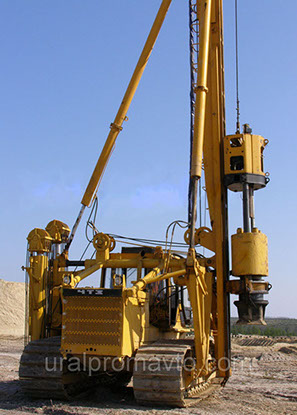
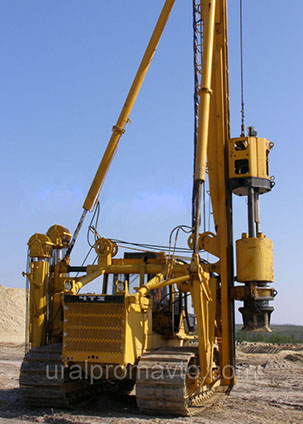
sibburkom

diff --git a/sibburkom/phone/css/index.css b/sibburkom/phone/css/index.css
@@ -1,1 +1,1 @@
-.version.index{color:#0000FC;background-color:#A7C480;}#page{z-index:1;min-height:570px;background-image:none;border-width:0px;border-color:#000000;background-color:#FFFFFF;opacity:1;-ms-filter:"progid:DXImageTransform.Microsoft.Alpha(Opacity=100)";filter:alpha(opacity=100);width:100%;max-width:380px;}#pu2746{z-index:2;margin-right:-10000px;width:100%;}#u2746{z-index:2;min-height:807.9168046874918px;border-style:solid;border-width:1px;border-color:#ECF0F1;background-color:#FCFCFC;padding-bottom:0px;}#u2746_position_content{padding-top:68px;padding-bottom:208px;width:100%;}#u2747-4{z-index:46;width:370px;min-height:42px;border-width:0px;border-color:transparent;background-color:transparent;line-height:43px;margin-left:6px;position:relative;}#ppamphletu2748{z-index:3;left:-1px;margin-top:5px;position:relative;width:100%;}#pamphletu2748{z-index:3;width:0.01px;height:375px;padding-bottom:34px;position:relative;margin-right:-10000px;left:-2px;}#u2749{position:absolute;width:383px;height:409px;background-color:transparent;}#u2749popup{z-index:4;}#u2755{z-index:5;width:383px;height:344px;border-width:0px;border-color:#999999;background-color:transparent;padding-bottom:65px;margin-right:-10000px;position:relative;}#u2758{z-index:6;background-color:transparent;position:relative;margin-right:-10000px;margin-top:3px;width:99.22%;}#u2756-4{z-index:8;width:214px;min-height:23px;border-color:#000000;background-color:transparent;font-size:24px;text-align:center;color:#000000;line-height:29px;position:relative;margin-right:-10000px;margin-top:218px;left:2px;}#u2757-4{z-index:12;width:214px;min-height:23px;border-color:#000000;background-color:transparent;font-size:24px;text-align:center;color:#212434;line-height:29px;position:relative;margin-right:-10000px;margin-top:257px;left:164px;}#u2750{z-index:16;width:383px;height:306px;border-width:0px;border-color:#999999;background-color:transparent;padding-bottom:103px;margin-right:-10000px;position:relative;}#u3098{z-index:25;background-color:transparent;position:relative;width:97.39%;margin-left:1.05%;}#pu2751-4{z-index:17;width:0.01px;margin-top:17px;}#u2751-4{z-index:17;width:214px;min-height:23px;border-color:#000000;background-color:transparent;font-size:24px;text-align:center;color:#212434;line-height:29px;position:relative;margin-right:-10000px;}#u2752-4{z-index:21;width:214px;min-height:23px;border-color:#000000;background-color:transparent;font-size:24px;text-align:center;color:#212434;line-height:29px;position:relative;margin-right:-10000px;margin-top:14px;left:163px;}#u2760{z-index:27;width:383px;height:349px;border-width:0px;border-color:#999999;background-color:transparent;padding-bottom:60px;margin-right:-10000px;position:relative;}#pu2763{z-index:28;width:98.96%;margin-left:0.53%;}#u2763{z-index:28;background-color:transparent;position:relative;margin-right:-10000px;width:55.94%;}#u2761{z-index:30;background-color:transparent;position:relative;margin-right:-10000px;width:53.3%;left:46.71%;}#u2758_img,#u3098_img,#u2763_img,#u2761_img{width:100%;}#pu2765-4{z-index:32;width:0.01px;margin-left:4px;margin-top:8px;}#u2765-4{z-index:32;width:196px;min-height:23px;border-color:#000000;background-color:transparent;font-size:24px;text-align:center;color:#212434;line-height:29px;position:relative;margin-right:-10000px;}#u2766-4{z-index:36;width:198px;min-height:23px;border-color:#000000;background-color:transparent;font-size:24px;text-align:center;color:#212434;line-height:29px;position:relative;margin-right:-10000px;left:180px;}#u2770{z-index:40;width:79px;height:16px;position:relative;margin-right:-10000px;margin-top:360px;left:157px;}#u2771{position:absolute;width:14px;height:14px;border-style:solid;border-width:1px;border-color:#BBC2CC;background-color:#EDF1F2;border-radius:1000px;left:31px;}#u2771:hover{border-color:#DD3635;background-color:#DF342E;width:14px;height:14px;min-height:0px;margin:0px;}#u2773{position:absolute;width:14px;height:14px;border-style:solid;border-width:1px;border-color:#BBC2CC;background-color:#EDF1F2;border-radius:1000px;left:63px;}#u2773:hover{border-color:#DD3635;background-color:#DF342E;width:14px;height:14px;min-height:0px;margin:0px;}#u2772{position:absolute;width:14px;height:14px;border-style:solid;border-width:1px;border-color:#BBC2CC;background-color:#EDF1F2;border-radius:1000px;}#u2772:hover{border-color:#DD3635;background-color:#DF342E;width:14px;height:14px;min-height:0px;margin:0px;}#u2771.PamphletThumbSelected,#u2773.PamphletThumbSelected,#u2772.PamphletThumbSelected{border-color:#DF342E;background-color:#DF342E;width:14px;height:14px;min-height:0px;margin:0px;}#u2774{position:absolute;width:56px;height:58px;border-style:solid;border-width:2px;border-color:#FFFFFF;opacity:1;-ms-filter:"progid:DXImageTransform.Microsoft.Alpha(Opacity=100)";filter:alpha(opacity=100);border-radius:1000px;top:112px;left:12px;background:#212434 url("../../images/arrow2w.png?crc=323185388") no-repeat center center;}#u2767{position:absolute;width:56px;height:58px;border-style:solid;border-width:2px;border-color:#FFFFFF;opacity:1;-ms-filter:"progid:DXImageTransform.Microsoft.Alpha(Opacity=100)";filter:alpha(opacity=100);border-radius:1000px;top:112px;left:319px;background:#212434 url("../../images/arrow1w.png?crc=4034096410") no-repeat center center;}#u2774:hover,#u2767:hover{background-repeat:no-repeat;background-position:center center;opacity:0.8;-ms-filter:"progid:DXImageTransform.Microsoft.Alpha(Opacity=80)";filter:alpha(opacity=80);width:56px;height:58px;min-height:0px;margin:0px;}#u2767::before,#u2767:hover::before{content:"";position:absolute;pointer-events:none;border-radius:1000px;box-shadow:none;}.PamphletWidget .ThumbGroup .Thumb,.PamphletNextButton,.PamphletPrevButton,.PamphletCloseButton{cursor:pointer;}#u2775-4{z-index:50;min-height:97px;background-color:transparent;letter-spacing:-2px;line-height:43px;font-size:36px;text-align:center;font-weight:bold;font-style:normal;position:relative;margin-right:-10000px;margin-top:387px;width:100%;}.js body{visibility:hidden;}.js body.initialized{visibility:visible;}#u2746-bw{z-index:2;min-height:807.9168046874918px;margin-top:154px;}#u2776{z-index:54;min-height:799px;border-color:#000000;background-color:#212434;}#u2776_position_content{padding-top:36px;padding-bottom:29px;width:100%;}#u2789-4{z-index:78;width:378px;min-height:42px;background-color:transparent;line-height:43px;font-size:36px;text-align:center;color:#FFFFFF;font-family:open-sans, sans-serif;font-weight:800;left:-1px;position:relative;}#buttonu2781{z-index:64;width:212px;height:94.9007319501161px;border-style:solid;border-width:2px;border-color:#FFFFFF;background-color:transparent;border-radius:1000px;padding-top:58px;padding-bottom:59.099268049883904px;margin-left:79px;margin-top:15px;position:relative;}#buttonu2781.ButtonSelected{width:212px;height:95px;min-height:0px;margin:15px 0px 0px 79px;}#u2783{z-index:69;width:48px;background-color:transparent;margin-left:82px;position:relative;}#buttonu2781.ButtonSelected #u2783{width:48px;min-height:0px;margin:0px 0px 0px 82px;}#u2784{z-index:70;display:block;}#u2782-4{z-index:65;width:207px;min-height:18px;background-color:transparent;line-height:23px;font-size:18px;text-align:center;color:#FFFFFF;font-family:open-sans, sans-serif;font-weight:600;margin-left:3px;margin-top:24px;position:relative;}#buttonu2785{z-index:71;width:212px;height:83.9017319501163px;border-style:solid;border-width:2px;border-color:#FFFFFF;background-color:transparent;border-radius:1000px;padding-top:69px;padding-bottom:59.0982680498837px;margin-left:80px;margin-top:14px;position:relative;}#buttonu2785.ButtonSelected{width:212px;height:84px;min-height:0px;margin:14px 0px 0px 80px;}#u2786{z-index:76;width:48px;background-color:transparent;margin-left:83px;position:relative;}#buttonu2785.ButtonSelected #u2786{width:48px;min-height:0px;margin:0px 0px 0px 83px;}#u2787{z-index:77;display:block;}#u2788-4{z-index:72;width:207px;min-height:18px;background-color:transparent;line-height:23px;font-size:18px;text-align:center;color:#FFFFFF;font-family:open-sans, sans-serif;font-weight:400;margin-left:3px;margin-top:23px;position:relative;}#buttonu2785.ButtonSelected #u2788-4{padding-top:0px;padding-bottom:0px;min-height:18px;width:207px;margin:23px 0px 0px 3px;}#buttonu2777{z-index:55;width:212px;height:117.88723195011607px;border-style:solid;border-width:2px;border-color:#FFFFFF;background-color:transparent;border-radius:1000px;padding-top:58px;padding-bottom:36.112768049883925px;margin-left:79px;margin-top:15px;position:relative;}#buttonu2777.ButtonSelected{width:212px;height:118px;min-height:0px;margin:15px 0px 0px 79px;}#u2778{z-index:62;width:33px;background-color:transparent;margin-left:89px;position:relative;}#buttonu2777.ButtonSelected #u2778{width:33px;min-height:0px;margin:0px 0px 0px 89px;}#u2779{z-index:63;display:block;}#u2780-6{z-index:56;width:207px;min-height:18px;background-color:transparent;line-height:23px;font-size:18px;text-align:center;color:#FFFFFF;font-family:open-sans, sans-serif;font-weight:400;margin-left:3px;margin-top:24px;position:relative;}#buttonu2781.ButtonSelected #u2782-4,#buttonu2777.ButtonSelected #u2780-6{padding-top:0px;padding-bottom:0px;min-height:18px;width:207px;margin:24px 0px 0px 3px;}#u2776-bw{z-index:54;min-height:799px;margin-top:707px;}#top{position:relative;margin-right:-10000px;width:22px;left:17.11%;}#u2797{z-index:106;min-height:176.99999999999983px;box-shadow:0px 1px 3px rgba(0,0,0,0.4);border-width:0px;border-color:transparent;background-color:#212434;padding-top:18px;padding-bottom:23.00000000000017px;}#pu2798-8{z-index:107;position:relative;width:100%;}#u2798-8{z-index:107;width:211px;min-height:48px;border-style:solid;border-width:2px;border-color:#FFFFFF;background-color:#FFFFFF;line-height:0px;font-size:24px;color:#212434;text-indent:20px;text-transform:uppercase;text-align:left;letter-spacing:1px;font-family:open-sans, sans-serif;font-weight:800;position:relative;margin-right:-10000px;left:-0.27%;}#u2798-2,#u2798-4,#u2798-6{padding:13px 2px;}#u2799-4{z-index:115;width:163px;min-height:80px;border-style:solid;border-color:#FFFFFF;background-color:transparent;line-height:18px;font-size:12px;color:#FFFFFF;letter-spacing:1px;text-transform:uppercase;text-align:left;font-family:open-sans, sans-serif;font-weight:400;margin-bottom:-1px;position:relative;margin-right:-10000px;margin-top:-1px;left:56.32%;border-width:2px 2px 2px 0px;}#u2799-2{padding-left:12px;padding-top:7px;}#u2800{z-index:119;width:271px;border-width:0px;border-color:transparent;background-color:transparent;margin-top:13px;position:relative;margin-left:13.95%;}#u2802-6{z-index:120;width:271px;min-height:57px;background-color:transparent;line-height:30px;font-size:30px;text-align:center;color:#FFAE03;font-family:open-sans, sans-serif;font-weight:700;position:relative;}#u2802-4{padding-top:9px;}#u2802{color:#FCBD49;}#u2802-3{color:#FFFFFF;}#u2801-4{z-index:126;width:271px;min-height:25px;background-color:transparent;line-height:13px;font-size:11px;color:#FFFFFF;letter-spacing:1px;text-transform:uppercase;text-align:center;font-family:open-sans, sans-serif;font-weight:400;position:relative;}#u2797-bw{z-index:106;min-height:176.99999999999983px;}.css_verticalspacer .verticalspacer{height:calc(100vh - 1631px);}#pu2790{z-index:82;width:0.01px;margin-bottom:-57px;margin-right:-10000px;}#u2790{z-index:82;min-height:128px;background-color:#1D1D1B;}#u2794-4{z-index:97;width:39px;min-height:39px;border-style:solid;border-width:1px;border-color:#474743;background-color:transparent;line-height:11px;font-size:11px;text-align:center;color:#7C7C7C;font-family:open-sans, sans-serif;font-weight:400;margin-bottom:-1px;position:relative;margin-right:-10000px;margin-top:88px;left:176px;}#u2794-4:hover{border-color:#FFFFFF;padding-top:0px;padding-bottom:0px;min-height:39px;width:39px;margin:88px -10000px -1px 0px;}#u2794-2{padding-top:2px;}#u2790-bw{z-index:82;min-height:128px;}#u2791-6{z-index:83;min-height:34px;background-color:transparent;line-height:17px;font-size:11px;text-align:center;color:#7F7F7F;font-family:open-sans, sans-serif;font-weight:400;}#u2791-6-bw{z-index:83;min-height:34px;margin-top:37px;}#u2792-4{z-index:89;width:133px;min-height:43px;background-color:transparent;line-height:17px;font-size:11px;text-align:center;color:#7C7C7C;font-family:open-sans, sans-serif;font-weight:400;position:relative;margin-right:-10000px;margin-top:2px;left:130px;}#u2792-4:hover{padding-top:0px;padding-bottom:0px;min-height:43px;width:133px;margin:2px -10000px 0px 0px;}#u2794-4:hover p,#u2792-4:hover p,#u2792-4:hover span{color:#FFFFFF;visibility:inherit;}#u2792{text-decoration:underline;}#u2793-4{z-index:93;width:130px;min-height:34px;background-color:transparent;line-height:17px;font-size:11px;text-align:center;color:#7C7C7C;font-family:open-sans, sans-serif;font-weight:400;position:relative;margin-right:-10000px;margin-top:2px;}#u2795-4{z-index:101;width:119px;min-height:34px;background-color:transparent;line-height:17px;font-size:11px;text-align:center;color:#7C7C7C;font-family:open-sans, sans-serif;font-weight:400;position:relative;margin-right:-10000px;margin-top:2px;left:261px;}#muse_css_mq,.html{background-color:#FFFFFF;}body{position:relative;min-width:320px;padding-bottom:56px;}.verticalspacer{min-height:1px;}
+.version.index{color:#00000D;background-color:#2D34E2;}#page{z-index:1;min-height:570px;background-image:none;border-width:0px;border-color:#000000;background-color:#FFFFFF;opacity:1;-ms-filter:"progid:DXImageTransform.Microsoft.Alpha(Opacity=100)";filter:alpha(opacity=100);width:100%;}#pu2746{z-index:2;margin-right:-10000px;width:100%;}#u2746{z-index:2;min-height:807.9168046874918px;border-style:solid;border-width:1px;border-color:#ECF0F1;background-color:#FCFCFC;padding-bottom:0px;}#u2746_position_content{padding-top:68px;padding-bottom:208px;width:100%;}#u2747-4{z-index:46;width:370px;min-height:42px;border-width:0px;border-color:transparent;background-color:transparent;line-height:43px;margin-left:6px;position:relative;}#ppamphletu2748{z-index:3;left:-1px;margin-top:5px;position:relative;width:100%;}#pamphletu2748{z-index:3;width:0.01px;height:375px;padding-bottom:34px;position:relative;margin-right:-10000px;left:-2px;}#u2749{position:absolute;width:383px;height:409px;background-color:transparent;}#u2749popup{z-index:4;}#u2755{z-index:5;width:383px;height:344px;border-width:0px;border-color:#999999;background-color:transparent;padding-bottom:65px;margin-right:-10000px;position:relative;}#u2758{z-index:6;background-color:transparent;position:relative;margin-right:-10000px;margin-top:3px;width:99.22%;}#u2756-4{z-index:8;width:214px;min-height:23px;border-color:#000000;background-color:transparent;font-size:24px;text-align:center;color:#000000;line-height:29px;position:relative;margin-right:-10000px;margin-top:218px;left:2px;}#u2757-4{z-index:12;width:214px;min-height:23px;border-color:#000000;background-color:transparent;font-size:24px;text-align:center;color:#212434;line-height:29px;position:relative;margin-right:-10000px;margin-top:257px;left:164px;}#u2750{z-index:16;width:383px;height:306px;border-width:0px;border-color:#999999;background-color:transparent;padding-bottom:103px;margin-right:-10000px;position:relative;}#u3098{z-index:25;background-color:transparent;position:relative;width:97.39%;margin-left:1.05%;}#pu2751-4{z-index:17;width:0.01px;margin-top:17px;}#u2751-4{z-index:17;width:214px;min-height:23px;border-color:#000000;background-color:transparent;font-size:24px;text-align:center;color:#212434;line-height:29px;position:relative;margin-right:-10000px;}#u2752-4{z-index:21;width:214px;min-height:23px;border-color:#000000;background-color:transparent;font-size:24px;text-align:center;color:#212434;line-height:29px;position:relative;margin-right:-10000px;margin-top:14px;left:163px;}#u2760{z-index:27;width:383px;height:349px;border-width:0px;border-color:#999999;background-color:transparent;padding-bottom:60px;margin-right:-10000px;position:relative;}#pu2763{z-index:28;width:98.96%;margin-left:0.53%;}#u2763{z-index:28;background-color:transparent;position:relative;margin-right:-10000px;width:55.94%;}#u2761{z-index:30;background-color:transparent;position:relative;margin-right:-10000px;width:53.3%;left:46.71%;}#u2758_img,#u3098_img,#u2763_img,#u2761_img{width:100%;}#pu2765-4{z-index:32;width:0.01px;margin-left:4px;margin-top:8px;}#u2765-4{z-index:32;width:196px;min-height:23px;border-color:#000000;background-color:transparent;font-size:24px;text-align:center;color:#212434;line-height:29px;position:relative;margin-right:-10000px;}#u2766-4{z-index:36;width:198px;min-height:23px;border-color:#000000;background-color:transparent;font-size:24px;text-align:center;color:#212434;line-height:29px;position:relative;margin-right:-10000px;left:180px;}#u2770{z-index:40;width:79px;height:16px;position:relative;margin-right:-10000px;margin-top:360px;left:157px;}#u2771{position:absolute;width:14px;height:14px;border-style:solid;border-width:1px;border-color:#BBC2CC;background-color:#EDF1F2;border-radius:1000px;left:31px;}#u2771:hover{border-color:#DD3635;background-color:#DF342E;width:14px;height:14px;min-height:0px;margin:0px;}#u2773{position:absolute;width:14px;height:14px;border-style:solid;border-width:1px;border-color:#BBC2CC;background-color:#EDF1F2;border-radius:1000px;left:63px;}#u2773:hover{border-color:#DD3635;background-color:#DF342E;width:14px;height:14px;min-height:0px;margin:0px;}#u2772{position:absolute;width:14px;height:14px;border-style:solid;border-width:1px;border-color:#BBC2CC;background-color:#EDF1F2;border-radius:1000px;}#u2772:hover{border-color:#DD3635;background-color:#DF342E;width:14px;height:14px;min-height:0px;margin:0px;}#u2771.PamphletThumbSelected,#u2773.PamphletThumbSelected,#u2772.PamphletThumbSelected{border-color:#DF342E;background-color:#DF342E;width:14px;height:14px;min-height:0px;margin:0px;}#u2774{position:absolute;width:56px;height:58px;border-style:solid;border-width:2px;border-color:#FFFFFF;opacity:1;-ms-filter:"progid:DXImageTransform.Microsoft.Alpha(Opacity=100)";filter:alpha(opacity=100);border-radius:1000px;top:112px;left:12px;background:#212434 url("../../images/arrow2w.png?crc=323185388") no-repeat center center;}#u2767{position:absolute;width:56px;height:58px;border-style:solid;border-width:2px;border-color:#FFFFFF;opacity:1;-ms-filter:"progid:DXImageTransform.Microsoft.Alpha(Opacity=100)";filter:alpha(opacity=100);border-radius:1000px;top:112px;left:319px;background:#212434 url("../../images/arrow1w.png?crc=4034096410") no-repeat center center;}#u2774:hover,#u2767:hover{background-repeat:no-repeat;background-position:center center;opacity:0.8;-ms-filter:"progid:DXImageTransform.Microsoft.Alpha(Opacity=80)";filter:alpha(opacity=80);width:56px;height:58px;min-height:0px;margin:0px;}#u2767::before,#u2767:hover::before{content:"";position:absolute;pointer-events:none;border-radius:1000px;box-shadow:none;}.PamphletWidget .ThumbGroup .Thumb,.PamphletNextButton,.PamphletPrevButton,.PamphletCloseButton{cursor:pointer;}#u2775-4{z-index:50;min-height:97px;background-color:transparent;letter-spacing:-2px;line-height:43px;font-size:36px;text-align:center;font-weight:bold;font-style:normal;position:relative;margin-right:-10000px;margin-top:387px;width:100%;}.js body{visibility:hidden;}.js body.initialized{visibility:visible;}#u2746-bw{z-index:2;min-height:807.9168046874918px;margin-top:154px;}#u2776{z-index:54;min-height:799px;border-color:#000000;background-color:#212434;}#u2776_position_content{padding-top:36px;padding-bottom:29px;width:100%;}#u2789-4{z-index:78;width:378px;min-height:42px;background-color:transparent;line-height:43px;font-size:36px;text-align:center;color:#FFFFFF;font-family:open-sans, sans-serif;font-weight:800;left:-1px;position:relative;}#buttonu2781{z-index:64;width:212px;height:94.9007319501161px;border-style:solid;border-width:2px;border-color:#FFFFFF;background-color:transparent;border-radius:1000px;padding-top:58px;padding-bottom:59.099268049883904px;margin-left:79px;margin-top:15px;position:relative;}#buttonu2781.ButtonSelected{width:212px;height:95px;min-height:0px;margin:15px 0px 0px 79px;}#u2783{z-index:69;width:48px;background-color:transparent;margin-left:82px;position:relative;}#buttonu2781.ButtonSelected #u2783{width:48px;min-height:0px;margin:0px 0px 0px 82px;}#u2784{z-index:70;display:block;}#u2782-4{z-index:65;width:207px;min-height:18px;background-color:transparent;line-height:23px;font-size:18px;text-align:center;color:#FFFFFF;font-family:open-sans, sans-serif;font-weight:600;margin-left:3px;margin-top:24px;position:relative;}#buttonu2785{z-index:71;width:212px;height:83.9017319501163px;border-style:solid;border-width:2px;border-color:#FFFFFF;background-color:transparent;border-radius:1000px;padding-top:69px;padding-bottom:59.0982680498837px;margin-left:80px;margin-top:14px;position:relative;}#buttonu2785.ButtonSelected{width:212px;height:84px;min-height:0px;margin:14px 0px 0px 80px;}#u2786{z-index:76;width:48px;background-color:transparent;margin-left:83px;position:relative;}#buttonu2785.ButtonSelected #u2786{width:48px;min-height:0px;margin:0px 0px 0px 83px;}#u2787{z-index:77;display:block;}#u2788-4{z-index:72;width:207px;min-height:18px;background-color:transparent;line-height:23px;font-size:18px;text-align:center;color:#FFFFFF;font-family:open-sans, sans-serif;font-weight:400;margin-left:3px;margin-top:23px;position:relative;}#buttonu2785.ButtonSelected #u2788-4{padding-top:0px;padding-bottom:0px;min-height:18px;width:207px;margin:23px 0px 0px 3px;}#buttonu2777{z-index:55;width:212px;height:117.88723195011607px;border-style:solid;border-width:2px;border-color:#FFFFFF;background-color:transparent;border-radius:1000px;padding-top:58px;padding-bottom:36.112768049883925px;margin-left:79px;margin-top:15px;position:relative;}#buttonu2777.ButtonSelected{width:212px;height:118px;min-height:0px;margin:15px 0px 0px 79px;}#u2778{z-index:62;width:33px;background-color:transparent;margin-left:89px;position:relative;}#buttonu2777.ButtonSelected #u2778{width:33px;min-height:0px;margin:0px 0px 0px 89px;}#u2779{z-index:63;display:block;}#u2780-6{z-index:56;width:207px;min-height:18px;background-color:transparent;line-height:23px;font-size:18px;text-align:center;color:#FFFFFF;font-family:open-sans, sans-serif;font-weight:400;margin-left:3px;margin-top:24px;position:relative;}#buttonu2781.ButtonSelected #u2782-4,#buttonu2777.ButtonSelected #u2780-6{padding-top:0px;padding-bottom:0px;min-height:18px;width:207px;margin:24px 0px 0px 3px;}#u2776-bw{z-index:54;min-height:799px;margin-top:707px;}#top{position:relative;margin-right:-10000px;width:22px;left:17.11%;}#u2797{z-index:106;min-height:176.99999999999983px;box-shadow:0px 1px 3px rgba(0,0,0,0.4);border-width:0px;border-color:transparent;background-color:#212434;padding-top:18px;padding-bottom:23.00000000000017px;}#pu2798-8{z-index:107;position:relative;width:100%;}#u2798-8{z-index:107;width:211px;min-height:48px;border-style:solid;border-width:2px;border-color:#FFFFFF;background-color:#FFFFFF;line-height:0px;font-size:24px;color:#212434;text-indent:20px;text-transform:uppercase;text-align:left;letter-spacing:1px;font-family:open-sans, sans-serif;font-weight:800;position:relative;margin-right:-10000px;left:-0.27%;}#u2798-2,#u2798-4,#u2798-6{padding:13px 2px;}#u2799-4{z-index:115;width:163px;min-height:80px;border-style:solid;border-color:#FFFFFF;background-color:transparent;line-height:18px;font-size:12px;color:#FFFFFF;letter-spacing:1px;text-transform:uppercase;text-align:left;font-family:open-sans, sans-serif;font-weight:400;margin-bottom:-1px;position:relative;margin-right:-10000px;margin-top:-1px;left:56.32%;border-width:2px 2px 2px 0px;}#u2799-2{padding-left:12px;padding-top:7px;}#u2800{z-index:119;width:271px;border-width:0px;border-color:transparent;background-color:transparent;margin-top:13px;position:relative;margin-left:13.95%;}#u2802-6{z-index:120;width:271px;min-height:57px;background-color:transparent;line-height:30px;font-size:30px;text-align:center;color:#FFAE03;font-family:open-sans, sans-serif;font-weight:700;position:relative;}#u2802-4{padding-top:9px;}#u2802{color:#FCBD49;}#u2802-3{color:#FFFFFF;}#u2801-4{z-index:126;width:271px;min-height:25px;background-color:transparent;line-height:13px;font-size:11px;color:#FFFFFF;letter-spacing:1px;text-transform:uppercase;text-align:center;font-family:open-sans, sans-serif;font-weight:400;position:relative;}#u2797-bw{z-index:106;min-height:176.99999999999983px;}.css_verticalspacer .verticalspacer{height:calc(100vh - 1631px);}#pu2790{z-index:82;width:0.01px;margin-bottom:-57px;margin-right:-10000px;}#u2790{z-index:82;min-height:128px;background-color:#1D1D1B;}#u2794-4{z-index:97;width:39px;min-height:39px;border-style:solid;border-width:1px;border-color:#474743;background-color:transparent;line-height:11px;font-size:11px;text-align:center;color:#7C7C7C;font-family:open-sans, sans-serif;font-weight:400;margin-bottom:-1px;position:relative;margin-right:-10000px;margin-top:88px;left:176px;}#u2794-4:hover{border-color:#FFFFFF;padding-top:0px;padding-bottom:0px;min-height:39px;width:39px;margin:88px -10000px -1px 0px;}#u2794-2{padding-top:2px;}#u2790-bw{z-index:82;min-height:128px;}#u2791-6{z-index:83;min-height:34px;background-color:transparent;line-height:17px;font-size:11px;text-align:center;color:#7F7F7F;font-family:open-sans, sans-serif;font-weight:400;}#u2791-6-bw{z-index:83;min-height:34px;margin-top:37px;}#u2792-4{z-index:89;width:133px;min-height:43px;background-color:transparent;line-height:17px;font-size:11px;text-align:center;color:#7C7C7C;font-family:open-sans, sans-serif;font-weight:400;position:relative;margin-right:-10000px;margin-top:2px;left:130px;}#u2792-4:hover{padding-top:0px;padding-bottom:0px;min-height:43px;width:133px;margin:2px -10000px 0px 0px;}#u2794-4:hover p,#u2792-4:hover p,#u2792-4:hover span{color:#FFFFFF;visibility:inherit;}#u2792{text-decoration:underline;}#u2793-4{z-index:93;width:130px;min-height:34px;background-color:transparent;line-height:17px;font-size:11px;text-align:center;color:#7C7C7C;font-family:open-sans, sans-serif;font-weight:400;position:relative;margin-right:-10000px;margin-top:2px;}#u2795-4{z-index:101;width:119px;min-height:34px;background-color:transparent;line-height:17px;font-size:11px;text-align:center;color:#7C7C7C;font-family:open-sans, sans-serif;font-weight:400;position:relative;margin-right:-10000px;margin-top:2px;left:261px;}#muse_css_mq,.html{background-color:#FFFFFF;}body{position:relative;min-width:320px;padding-bottom:56px;}.verticalspacer{min-height:1px;}

diff --git a/sibburkom/phone/index.html b/sibburkom/phone/index.html
@@ -18,7 +18,7 @@ if(typeof Muse == "undefined") window.Muse = {}; window.Muse.assets = {"required
   <title>Домашняя</title>
   <!-- CSS -->
   <link rel="stylesheet" type="text/css" href="../css/site_global.css?crc=94639636"/>
-  <link rel="stylesheet" type="text/css" href="css/index.css?crc=4238853248" id="pagesheet"/>
+  <link rel="stylesheet" type="text/css" href="css/index.css?crc=221066466" id="pagesheet"/>
   <!-- IE-only CSS -->
   <!--[if lt IE 9]>
   <link rel="stylesheet" type="text/css" href="css/iefonts_index.css?crc=3790340767"/>
@@ -46,7 +46,7 @@ if(typeof Muse == "undefined") window.Muse = {}; window.Muse.assets = {"required
           <div class="ContainerGroup clearfix" id="u2749" data-sizePolicy="fixed" data-pintopage="page_fixedLeft"><!-- stack box -->
            <div class="Container clearfix grpelem" id="u2755" data-sizePolicy="fixed" data-pintopage="page_fixedLeft"><!-- group -->
             <div class="clip_frame grpelem" id="u2758"><!-- image -->
-             <img class="block" id="u2758_img" src="../images/4986316380x245.jpg?crc=3871839620" alt="" data-heightwidthratio="0.6421052631578947" data-image-width="380" data-image-height="244"/>
+             <img class="block" id="u2758_img" src="../images/4986316570x366.jpg?crc=149275477" alt="" data-heightwidthratio="0.6421052631578947" data-image-width="380" data-image-height="244"/>
             </div>
             <div class="H1 clearfix grpelem" id="u2756-4" data-sizePolicy="fixed" data-pintopage="page_fixedLeft"><!-- content -->
              <h1>Бурение ПБУ-2 на базе Урал</h1>
@@ -57,7 +57,7 @@ if(typeof Muse == "undefined") window.Muse = {}; window.Muse.assets = {"required
            </div>
            <div class="Container invi clearfix grpelem" id="u2750" data-sizePolicy="fixed" data-pintopage="page_fixedLeft"><!-- column -->
             <div class="clip_frame colelem" id="u3098"><!-- image -->
-             <img class="block" id="u3098_img" src="../images/2374x189.jpg?crc=224143451" alt="" data-heightwidthratio="0.5040214477211796" data-image-width="373" data-image-height="188"/>
+             <img class="block" id="u3098_img" src="../images/2560x282.jpg?crc=4050841066" alt="" data-heightwidthratio="0.5040214477211796" data-image-width="373" data-image-height="188"/>
             </div>
             <div class="clearfix colelem" id="pu2751-4"><!-- group -->
              <div class="H1 clearfix grpelem" id="u2751-4" data-sizePolicy="fixed" data-pintopage="page_fixedLeft"><!-- content -->
@@ -71,10 +71,10 @@ if(typeof Muse == "undefined") window.Muse = {}; window.Muse.assets = {"required
            <div class="Container invi clearfix grpelem" id="u2760" data-sizePolicy="fixed" data-pintopage="page_fixedLeft"><!-- column -->
             <div class="clearfix colelem" id="pu2763"><!-- group -->
              <div class="clip_frame grpelem" id="u2763"><!-- image -->
-              <img class="block" id="u2763_img" src="../images/images-liderskvazina1.jpg?crc=4095859253" alt="" data-heightwidthratio="1.3349056603773586" data-image-width="212" data-image-height="283"/>
+              <img class="block" id="u2763_img" src="../images/images-liderskvazina1.jpg?crc=4174042574" alt="" data-heightwidthratio="1.3349056603773586" data-image-width="212" data-image-height="283"/>
              </div>
              <div class="clip_frame grpelem" id="u2761"><!-- image -->
-              <img class="block" id="u2761_img" src="../images/114392377_w640_h640_4203x283.jpg?crc=4152060351" alt="" data-heightwidthratio="1.400990099009901" data-image-width="202" data-image-height="283"/>
+              <img class="block" id="u2761_img" src="../images/114392377_w640_h640_4.jpg?crc=4129271933" alt="" data-heightwidthratio="1.400990099009901" data-image-width="202" data-image-height="283"/>
              </div>
             </div>
             <div class="clearfix colelem" id="pu2765-4"><!-- group -->
